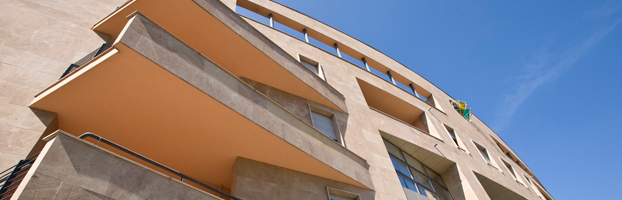
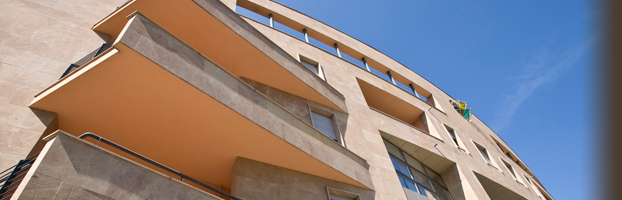
Left&Right is now finished

Changed region(s): [[0.9164, 0.0, 1.0, 1.0]]

diff --git a/site_files/app/themes/sass/themes/leftandright/frontend-structure.sass b/site_files/app/themes/sass/themes/leftandright/frontend-structure.sass
@@ -42,8 +42,8 @@ div#header-top
     border-right: 1px solid #FFF
     height: 200px
     position: absolute
-    left: -55px
-    width: 54px
+    left: -53px
+    width: 52px
 
   div#building-top-right
     background-image: url("/stylesheets/themes/leftandright/images/building_top_right.png")
@@ -86,14 +86,21 @@ div#header-bottom
     border-right: 1px solid #FFF
     height: 129px
     position: absolute
-    left: -55px
-    width: 54px
+    left: -53px
+    width: 52px
 
   div#building-bottom-right
     background-image: url("/stylesheets/themes/leftandright/images/building_bottom_right.png")
     float: left
     height: 129px
     width: 622px
+
+    div#right-cream-fade-bar
+      background-image: url("/stylesheets/themes/leftandright/images/building_bottom_right_fade.png")
+      height: 129px
+      position: absolute
+      left: 579px
+      width: 43px
 
   div#right-cream-bar
     background-color: #F0E1D4
@@ -171,15 +178,16 @@ div#navigation
       display: inline
 
       a
-        color: #F3E7DD
-        display: inline-block
         background-image: url("/stylesheets/themes/leftandright/images/menu.png")
         border-right: 1px solid #6E6258
+        color: #F3E7DD
+        display: inline-block
         height: 18px
         padding: 8px 20px 10px
 
       a:hover
         background-image: url("/stylesheets/themes/leftandright/images/menu.png")
+        color: #FFF
 
 
 div#primary-wrapper
